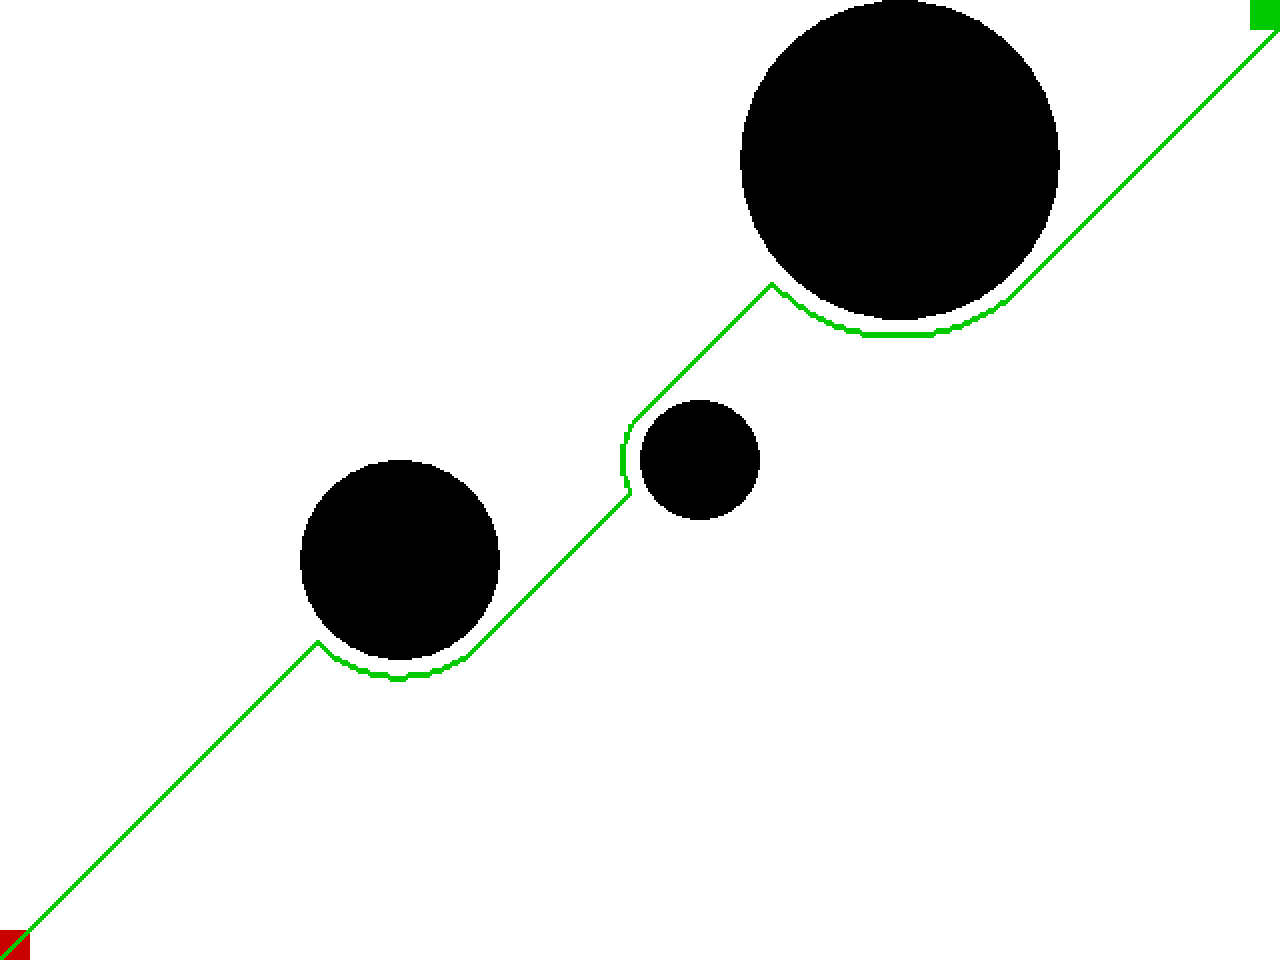
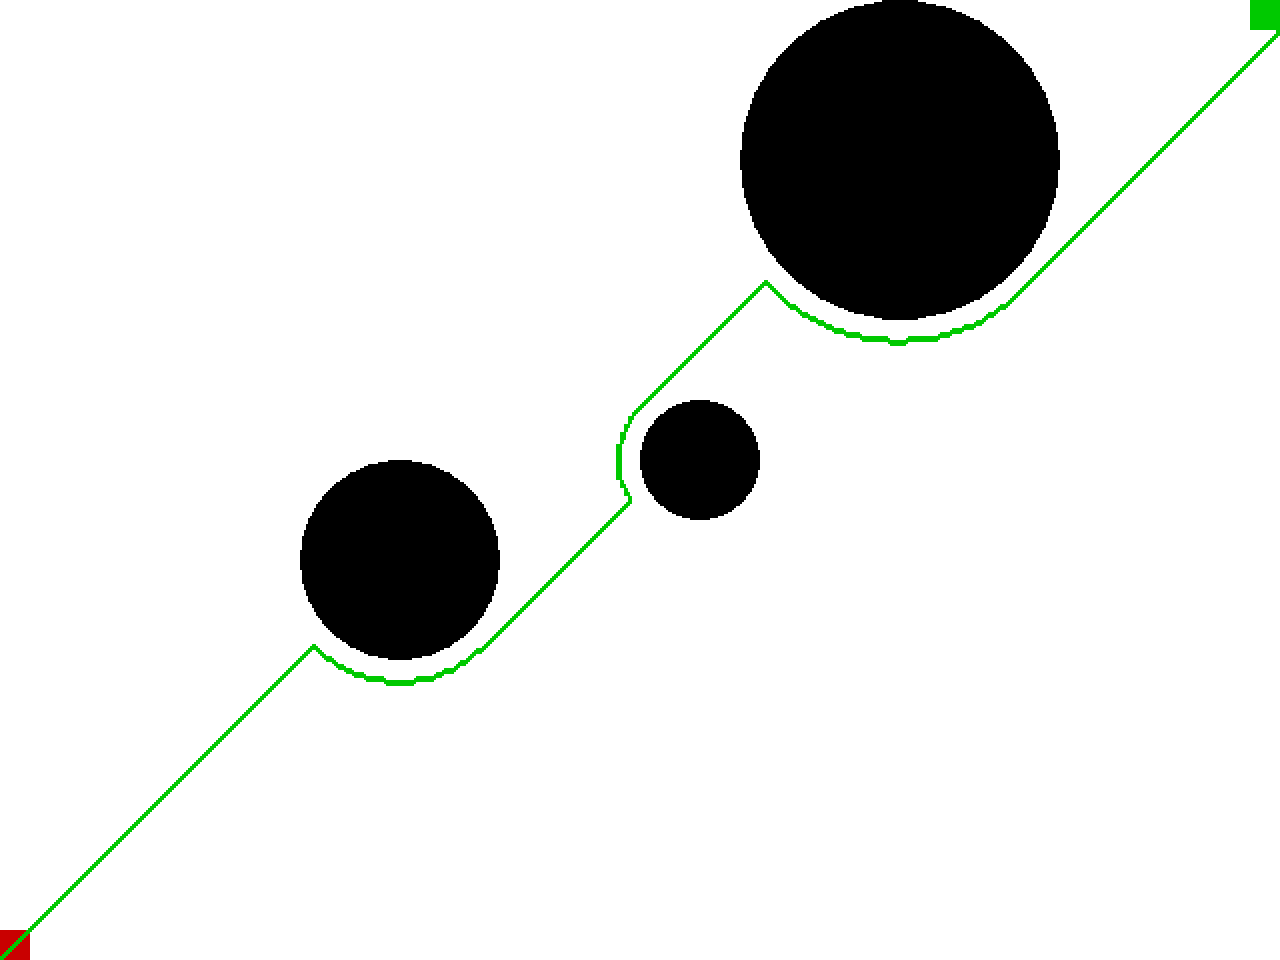
divide by 2

diff --git a/PathPlanning/PotentialField/PotentialField.py b/PathPlanning/PotentialField/PotentialField.py
@@ -45,9 +45,9 @@ class PotentialFieldPlanner(PathPlanner):
 
     def calculate_attractive_potential(self, pos, target):
         if pos.dist(target) <= self.da:
-            return self.ka * pos.dist(target) ** 2
+            return 0.5 * self.ka * pos.dist(target) ** 2
         else:
-            return self.ka * (2 * self.da * pos.dist(target) - self.da ** 2)
+            return self.ka * (self.da * pos.dist(target) - 0.5 * self.da ** 2)
 
     def calculate_repulsive_potential(self, pos):
         pr = 0
